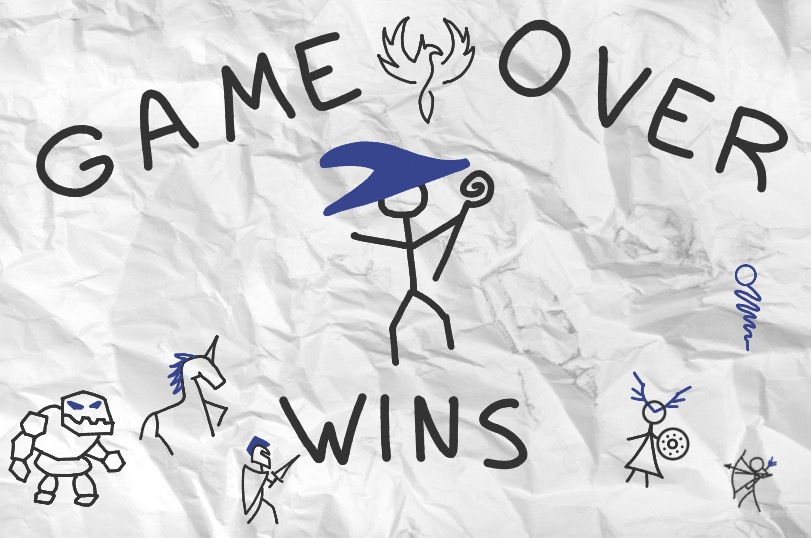
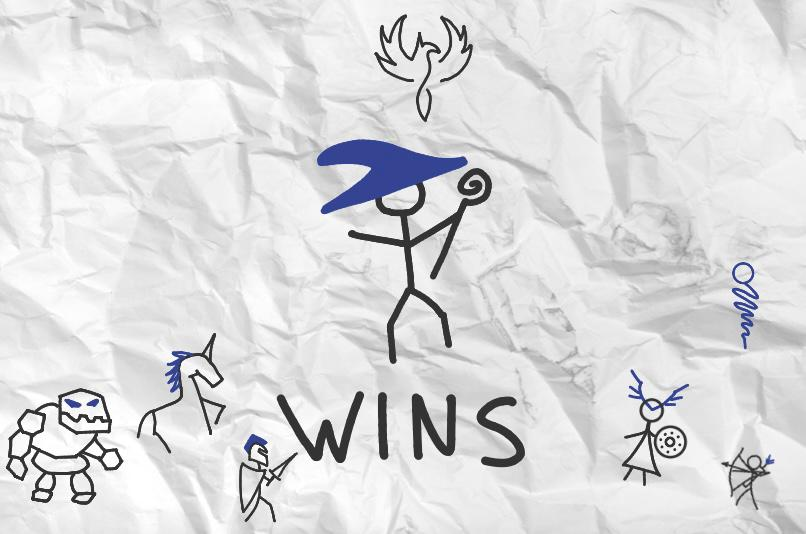
correcciones merge

diff --git a/src/Tablero.cpp b/src/Tablero.cpp
@@ -158,7 +158,6 @@ TableroAccion Tablero::tecla(unsigned char key)
             //tablero avisa de que se he elegido combate, haciendo que juego ponga el estado ARENA y limpiando el flag del combate pendiente para no volver a entrar 
             else if (hayCombatePendiente()) {
                 limpiarCombatePendiente();
-                printf("hayCombatePendiente: %d\n", hayCombatePendiente());
                 return TableroAccion::IR_ARENA;
             }
             break;
@@ -803,13 +802,6 @@ bool Tablero::resultadoCombate(Pieza* ganadorArena)
     enDestino->resetEstadoArena();
     //enDestino->setEnArena(false);
     bool finJuego = comprobarFinJuego();
-
-    if (finJuego)
-        printf("[FIN] Ganador absoluto: %s\n",
-            ganador == Bando::LUZ ? "LUZ" : "OSCURIDAD");
-    else
-        printf("[PARTIDA] Quedan piezas, la partida continua\n");
-
     cambiarTurno();
     return finJuego;
 }
@@ -897,10 +889,6 @@ void Tablero::aplicarEfectoTipoCasilla(Pieza* p, const Casilla& c)
     //aplicar proteccion de hechizo
     if (c.getTipo() == TipoCasilla::PODER) p->setProteccionContraHechizos(true);
     else p->setProteccionContraHechizos(false);
-
-
-
-
 }
 
 

diff --git a/includes/Cambiaforma.h b/includes/Cambiaforma.h
@@ -8,9 +8,6 @@ class Cambiaforma : public Pieza
 public:
     Cambiaforma(std::string nombre = "Cambiaforma", TipoPieza tipo = TipoPieza::CAMBIAFORMA, Bando b = Bando::OSCURIDAD);
     void reproducirSonidoAtaque() const override { sfx_ataque_disparo.play(); }
-
-    Cambiaforma(std::string nombre = "Cambiaforma", Bando b = Bando::OSCURIDAD);
-    
-    void dibuja(const Renderer& renderer, const Vector2D& centro, double ancho, double alto) const override;
+   /* void dibuja(const Renderer& renderer, const Vector2D& centro, double ancho, double alto) const override;*/
     const char* getSpriteAtaque() const override { return cambiaforma.grafAtaque; }
 };

diff --git a/includes/Dragon.h b/includes/Dragon.h
@@ -8,8 +8,7 @@ class Dragon : public Pieza
 public:
     Dragon(std::string nombre = "Dragon", TipoPieza tipo = TipoPieza::DRAGON, Bando b = Bando::OSCURIDAD);
     void reproducirSonidoAtaque() const override { sfx_ataque_fuego.play(); }
-    Dragon(std::string nombre = "Dragon", Bando b = Bando::OSCURIDAD);
-    void dibuja(const Renderer& renderer, const Vector2D& centro, double ancho, double alto) const override;
+   /* void dibuja(const Renderer& renderer, const Vector2D& centro, double ancho, double alto) const override;*/
     const char* getSpriteAtaque() const override { return dragon.grafAtaque; }
 
 };

diff --git a/includes/Grafarena.h b/includes/Grafarena.h
@@ -8,5 +8,5 @@ inline Grafarena arbolmarron{ "assets/Graficos/arbolmarron.png" };
 inline Grafarena arbolverde{ "assets/Graficos/arbolverde.png" };
 inline Grafarena ganaluz{ "assets/Graficos/ganaclaro.png" };
 inline Grafarena ganaoscuro{ "assets/Graficos/ganaoscuro.png" };  
-inline Grafarena finluz{ "assets/Graficos/cease.png" };
-inline Grafarena finoscuro{ "assets/Graficos/panel.png" };
+inline Grafarena finluz{ "assets/Graficos/finluz.png" };
+inline Grafarena finoscuro{ "assets/Graficos/finoscuro.png" };

diff --git a/includes/Grafpiezas.h b/includes/Grafpiezas.h
@@ -76,7 +76,7 @@ inline constexpr TiposPiezas banshee = {
 
 inline constexpr TiposPiezas cambiaforma = {
 	"assets/Graficos/cambiaformas.png",
-	"assets/Graficos/espejo.png"
+	"assets/Graficos/espejo2.png"
 };
 
 inline constexpr TiposPiezas dragon = {
